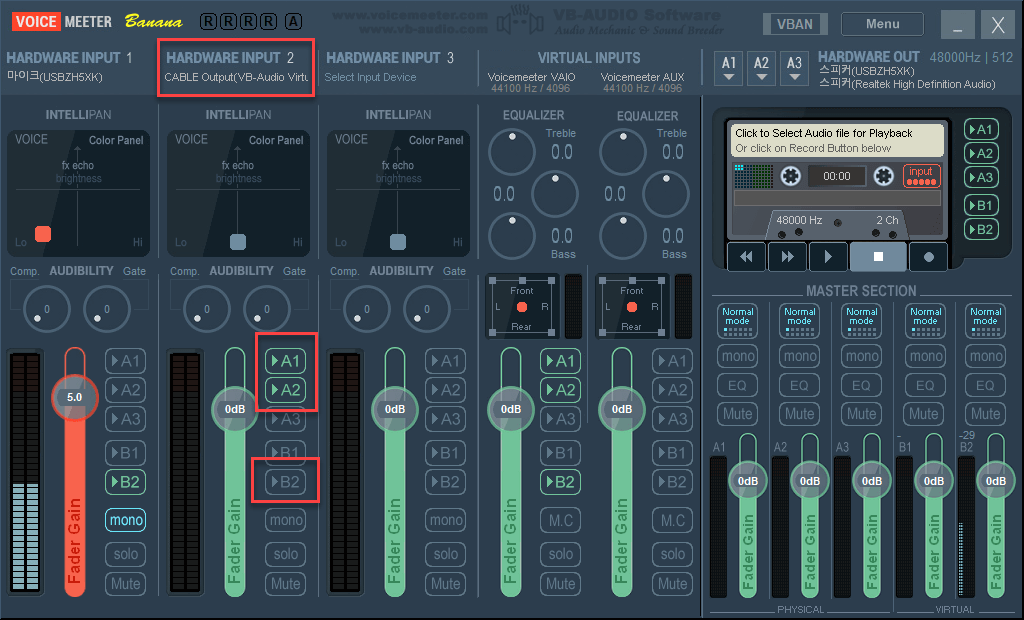
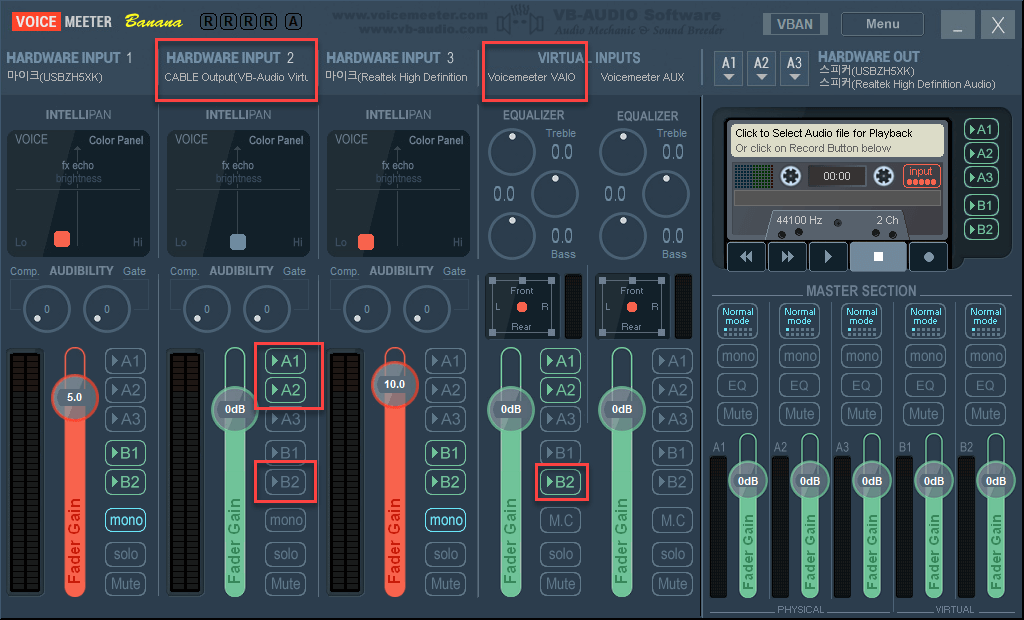
2017-10-24 post

diff --git a/_posts/2017-08-08-voicemeeter-banana-and-virtual-audio-cable-setting.md b/_posts/2017-08-08-voicemeeter-banana-and-virtual-audio-cable-setting.md
@@ -22,13 +22,17 @@ comments: true
 
    * Voicemeeter Banana 와 Virtual Audio Cables를 설치 후 재부팅합니다.
 
+     * VoiceMeeter Input - 기본 시스템 사운드, VoiceMeeter Output, VoiceMeeter Aux Output 포함
+     * VoiceMeeter Output - 물리 마이크 입력, 음성 채팅용 마이크로 설정
+     * VoiceMeeter Aux Output - 물리 마이크 입력, 보이스 채팅 입력, 방송 송출용 마이크로 설정
+
    * 재부팅 후 시스템 트레이의 오디오 설정을 아래와 같이 변경합니다.
 
      * 재생 : VoiceMeeter Input ( 기본 장치/기본 통신 장치 )
 
        ![1]({{ site.url }}/img/2017-08-08-voicemeeter-banana-and-virtual-audio-cable-setting/1.png)
 
-     * 녹음 : 사용하는 마이크 장치(기본 장치/기본 통신장치 )
+     * 녹음 : VoiceMeeter Output ( 기본 장치/기본 통신장치 )
 
        ![2]({{ site.url }}/img/2017-08-08-voicemeeter-banana-and-virtual-audio-cable-setting/2.png)
 
@@ -38,33 +42,53 @@ comments: true
 
        ![3]({{ site.url }}/img/2017-08-08-voicemeeter-banana-and-virtual-audio-cable-setting/3.png)
 
-     * 좌측 HARDWARE INPUT 1에 물리마이크를 설정합니다. 물리 마이크의 경우 VoiceMeeter Output에 출력되려면 B1, VoiceMeeter Aux Output에 출력되려면 B2로 설정합니다.
+     * 좌측 상단 HARDWARE INPUT 1에 물리마이크를 설정합니다. 물리마이크의 경우 음성채팅과 방송용 마이크에 출력되야 하므로 B1(VoiceMeeter Output), B2(VoiceMeeter Aux Output)에 모두 출력되도록 설정합니다.
 
        ![4]({{ site.url }}/img/2017-08-08-voicemeeter-banana-and-virtual-audio-cable-setting/4.png)
 
-     * 좌측 상단 HARDWARE INPUT 2에 CABLE Output을 설정합니다. CABLE Output(VB-Audio Virtual)은을 자기 자신만 스피커로 듣기 위해서는 A1, A2(물리 스피커)에 체크합니다.
+     * 좌측 상단 HARDWARE INPUT 2에 CABLE Output을 설정합니다. CABLE Output(VB-Audio Virtual)은기본 시스템 사운드를 VoiceMeeter Input에 믹스 여부에 대한 관리를 할 수 있습니다. 기본적으로 시스템 사운드 이므로 물리 스피커(A1, A2)에 체크합니다.
+
+       * 예를 들어 음성채팅 대화내용을 방송용 마이크에 섞이지 않기 위해서는 B2(VoiceMeeter Aux Output)를 체크 해제합니다.
 
        ![5]({{ site.url }}/img/2017-08-08-voicemeeter-banana-and-virtual-audio-cable-setting/5.png)
 
-     * 좌측 상단 HARDWARE INPUT 2에 CABLE Output을 물리 마이크 처럼 시스템에 믹스하기 위해 B1(VoiceMeeter Output), 혹은 B2(VoiceMeeter Aux Output)를 설정합니다.
+       * 반대로 음성채팅 대화내용을 섞이게 하기위해선 B2(VoiceMeeter Aux Output)에 체크합니다.
 
        ![6]({{ site.url }}/img/2017-08-08-voicemeeter-banana-and-virtual-audio-cable-setting/6.PNG)
 
-     * 설정을 저장하기 위해 우측 상단의 메뉴를 클릭하여 Restart Audio Engine을 실행 시킨 뒤, 윈도우 시작시마다 설정 되도록 System Tray(Run at Startup)에 체크해줍니다.
+     * 좌측 상단 HARDWARE INPUT 3에 물리마이크 2를 설정합니다. HARDWARE INPUT 1에 설정한 마이크 설정과 같습니다.
 
        ![7]({{ site.url }}/img/2017-08-08-voicemeeter-banana-and-virtual-audio-cable-setting/7.png)
+
+     * 설정을 저장하기 위해 우측 상단의 메뉴를 클릭하여 Restart Audio Engine을 실행 시킨 뒤, 윈도우 시작시마다 설정 되도록 System Tray(Run at Startup)에 체크해줍니다.
+
+       ![8]({{ site.url }}/img/2017-08-08-voicemeeter-banana-and-virtual-audio-cable-setting/8.png)
+
+     * 실 사용 예시입니다.
+
+       * HARDWARE INPUT 1, HARDWARE INPUT 2, HARDWARE INPUT 3는 결국 시스템 사운드에 믹스될 수 있는 소스입니다. VoiceMeeter Aux Output( 방송용 출력 마이크 )에 모든 소리를 출력하고자 한다면 VoiceMeeter Aux Output( B2 ) 출력 설정을 각각의 마이크와 VoiceMeeter Input ( 시스템 사운드 )에 설정합니다.
+
+         ![9]({{ site.url }}/img/2017-08-08-voicemeeter-banana-and-virtual-audio-cable-setting/9.png)
+
+       * HARDWARE INPUT 1 과 HARDWARE INPUT 3는 물리마이크로 실제 소리가 입력됩니다. 프로그램마다 마이크 설정을 변경할 필요없이 VoiceMeeter Output(B1)으로 마이크 소리를 리다이렉트하면 VoiceMeeter Output 마이크 설정으로 언제든지 두 물리마이크를 사용하실 수 있습니다.
+
+         ![10]({{ site.url }}/img/2017-08-08-voicemeeter-banana-and-virtual-audio-cable-setting/10.png)
+
+       * 마이크 사용시 테스트를 위해서 자기 자신의 소리를 확인해야될 경우가 있습니다. 약간의 딜레이가 존재하지만 마이크 소리 및 잡음을 테스트해보려면 물리마이크에 실제 물리스피커(A1, A2)를 설정하면 VoiceMeeter Input( 시스템 사운드 )로 나가는 소리를 확인하실 수 있습니다.
+
+         ![11]({{ site.url }}/img/2017-08-08-voicemeeter-banana-and-virtual-audio-cable-setting/11.png)
 
    * 기타 음원 관련 프로그램 설정을 진행합니다.
 
      * 방송 송출 프로그램은 모든 오디오 장치를 Disabled 한 다음에 마이크/보조 오디오 장치를 B1인 경우 VoiceMeeter Output(VB-Audio VoiceMeeter VAIO), B2인 경우 VoiceMeeter Aux Output(VB-Audio VoiceMeeter AUX VAIO)로 설정합니다.
 
-       ![8]({{ site.url }}/img/2017-08-08-voicemeeter-banana-and-virtual-audio-cable-setting/8.png)
+       ![12]({{ site.url }}/img/2017-08-08-voicemeeter-banana-and-virtual-audio-cable-setting/12.png)
 
      * 음성 채팅 프로그램은 출력 장치를 CABLE Input(VA-Audio Virtual Cabel)로 입력 장치를 물리마이크로 설정합니다.
 
-       ![9]({{ site.url }}/img/2017-08-08-voicemeeter-banana-and-virtual-audio-cable-setting/9.png)
+       ![13]({{ site.url }}/img/2017-08-08-voicemeeter-banana-and-virtual-audio-cable-setting/13.png)
 
-       ![10]({{ site.url }}/img/2017-08-08-voicemeeter-banana-and-virtual-audio-cable-setting/10.png)
+       ![14]({{ site.url }}/img/2017-08-08-voicemeeter-banana-and-virtual-audio-cable-setting/14.png)
 
      
 

diff --git a/_posts/2017-10-24-rollback-git-history.md b/_posts/2017-10-24-rollback-git-history.md
@@ -1,0 +1,23 @@
+---
+layout: post
+title: "Git History 되돌려서 Commit 정리하기"
+date: 2017-10-24 16:54:00 +0900
+categories: [Jekyll]
+comments: true
+---
+
+* 이미 push 된 commit을 되돌리고 수정된 git history를 작성하여 관리하려면 다음과 같은 과정을 진행합니다.
+
+  1. 현재 git history를 1단계 전으로 강제로 되돌립니다. 단, 이 커맨드를 입력하기 전에 작업해둔 파일이 있다면 git repository 외의 공간에 백업해둡니다.
+
+     ```
+     git reset --hard HEAD~1
+     ```
+
+  2. 수정해야 될 사항을 수정하고 일반적인 commit 과정을 거치되 github에 push할 떄 강제로 덮어쓰기 합니다.
+
+     ```
+     git add .
+     git commit "..."
+     git push origin +master
+     ```

diff --git a/_posts/2017-07-14-git-pages-and-jekyll.md b/_posts/2017-07-14-git-pages-and-jekyll.md
@@ -23,10 +23,20 @@ comments: true
    $ git clone https://github.com/Luvery93/luvery93.github.io.git
    $ cd luvery93.github.io
    ```
-   * git 프로젝트가 있고 수정을 반영한다면 CMD 창에서 아래를 입력합니다.
+   * git 프로젝트가 있고 수정을 반영한다면 아래와 같이 진행합니다.
 
    ```
    $ git add .
-   $ git commit -m "2017-07-14 post"
+   $ git commit -m "..."
    $ git push origin master
    ```
+   * push 까지 된 commit을 취소하고 수정 사항을 반영한다면 아래와 같이 진행합니다.
+
+   ```
+   $ git reset --hard HEAD~1
+   $ git add .
+   $ git commit "..."
+   $ git push origin +master
+   ```
+
+   

diff --git a/_posts/2017-10-19-clear-printer-spooler.md b/_posts/2017-10-19-clear-printer-spooler.md
@@ -1,0 +1,18 @@
+---
+layout: post
+title: "프린터 스풀러 삭제"
+categories: [Windows]
+date: 2017-10-19 14:40:00 +0900
+comments: true
+---
+
+* 윈도우 서비스 중 Printer Spooler가 삭제되지 않을 때 아래 명령어를 통해 삭제할 수 있습니다.
+
+  ```
+  net stop splooer
+  attrib -r -h -s C:\Windows\System32\spool\PRINTERS
+  echo y|del /s C:\Windows\System32\spool\PRINTERS\*.*
+  net start spooler
+  pause
+  ```
+
